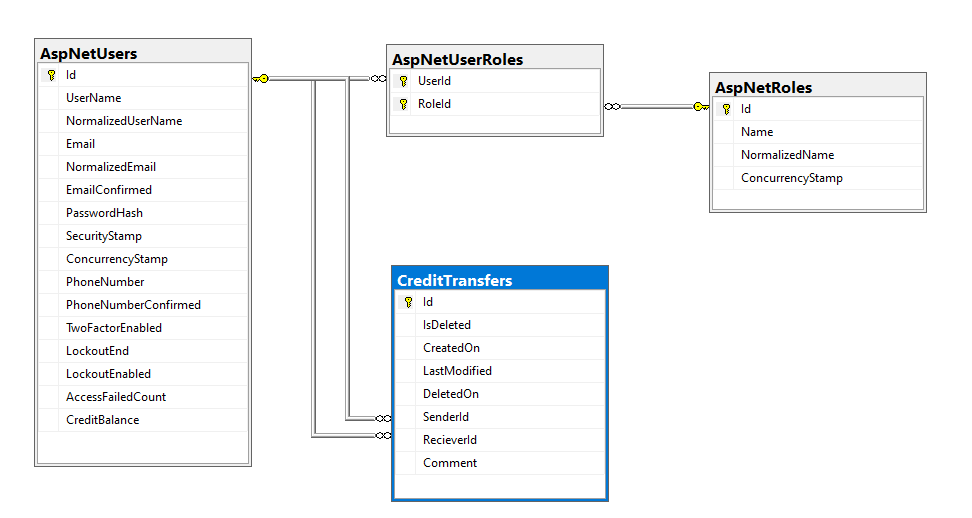
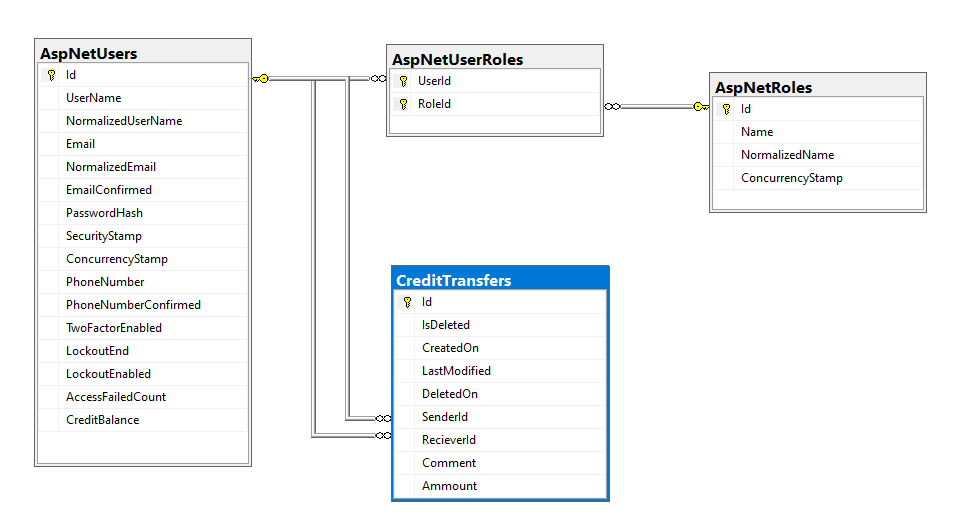
Implemented display of statistics on main-page. Added Ammount to CreditTransfer entity.

diff --git a/GiftExchanger/ServiceLibrary/Services/StatisticsService.cs b/GiftExchanger/ServiceLibrary/Services/StatisticsService.cs
@@ -1,0 +1,54 @@
+using CommonLibrary;
+using CommonLibrary.Interfaces;
+using Infrastructure.DTOS;
+using Infrasturcture.Models;
+using Microsoft.AspNetCore.Identity;
+using Microsoft.EntityFrameworkCore;
+using System.Linq;
+using System.Threading.Tasks;
+
+namespace ServiceLibrary
+{
+    public class StatisticsService : IStatisticsService
+    {
+        private readonly UserManager<UserGE> _userManager;
+        private readonly IRepository<CreditTransfer> transfersRepository;
+
+        public StatisticsService(UserManager<UserGE> userManager, IRepository<CreditTransfer> transfersRepository)
+        {
+            this._userManager = userManager;
+            this.transfersRepository = transfersRepository;
+        }
+
+
+        public async Task<AppStatisticsDTOout> GetStatisticsAsync()
+        {
+            UserGE[] users = await this._userManager.Users.ToArrayAsync();
+
+            var adminsCount = 0;
+
+
+            foreach (var user in users)
+            {
+                if (await _userManager.IsInRoleAsync(user, GlobalConstants.AdministratorRole))
+                {
+                    adminsCount++;
+                }
+            }
+
+            var result = new AppStatisticsDTOout
+            {
+                TotalUsersCount = users.Count(),
+                AdminsUsersCount = adminsCount,
+                TotalTransactions = await transfersRepository.All.Where(x => !x.IsDeleted).CountAsync(),
+                TotalTransferedCredits = await transfersRepository.All.Where(x => !x.IsDeleted).SumAsync(x => x.Ammount),
+            };
+
+            return result;
+            //  db.Users.Count(x => x.Roles.Select(k => k.RoleId).Contains(g.Key.Id))
+        }
+
+
+
+    }
+}

diff --git a/GiftExchanger/GiftExchangerApp/Controllers/HomeController.cs b/GiftExchanger/GiftExchangerApp/Controllers/HomeController.cs
@@ -2,21 +2,26 @@
 using Microsoft.AspNetCore.Mvc;
 using Microsoft.Extensions.Logging;
 using GiftExchangerApp.Models;
+using ServiceLibrary;
+using System.Threading.Tasks;
 
 namespace GiftExchangerApp.Controllers
 {
     public class HomeController : Controller
     {
         private readonly ILogger<HomeController> _logger;
+        private readonly IStatisticsService statisticsService;
 
-        public HomeController(ILogger<HomeController> logger)
+        public HomeController(ILogger<HomeController> logger, IStatisticsService statisticsService)
         {
             _logger = logger;
+            this.statisticsService = statisticsService;
         }
 
-        public IActionResult Index()
+        public async Task<IActionResult> Index()
         {
-            return View();
+            var data = await this.statisticsService.GetStatisticsAsync();
+            return View(data);
         }
 
         public IActionResult About()

diff --git a/GiftExchanger/Infrasturcture.Data/Migrations/20200708190229_AddedAmmountPropertyToCreditTransfer.Designer.cs b/GiftExchanger/Infrasturcture.Data/Migrations/20200708190229_AddedAmmountPropertyToCreditTransfer.Designer.cs
@@ -4,14 +4,16 @@ using Infrasturcture.Data;
 using Microsoft.EntityFrameworkCore;
 using Microsoft.EntityFrameworkCore.Infrastructure;
 using Microsoft.EntityFrameworkCore.Metadata;
+using Microsoft.EntityFrameworkCore.Migrations;
 using Microsoft.EntityFrameworkCore.Storage.ValueConversion;
 
 namespace Infrasturcture.Data.Migrations
 {
     [DbContext(typeof(GiftExchangerContext))]
-    partial class GiftExchangerContextModelSnapshot : ModelSnapshot
+    [Migration("20200708190229_AddedAmmountPropertyToCreditTransfer")]
+    partial class AddedAmmountPropertyToCreditTransfer
     {
-        protected override void BuildModel(ModelBuilder modelBuilder)
+        protected override void BuildTargetModel(ModelBuilder modelBuilder)
         {
 #pragma warning disable 612, 618
             modelBuilder

diff --git a/GiftExchanger/Infrasturcture.Data/Migrations/20200708190229_AddedAmmountPropertyToCreditTransfer.cs b/GiftExchanger/Infrasturcture.Data/Migrations/20200708190229_AddedAmmountPropertyToCreditTransfer.cs
@@ -1,0 +1,23 @@
+using Microsoft.EntityFrameworkCore.Migrations;
+
+namespace Infrasturcture.Data.Migrations
+{
+    public partial class AddedAmmountPropertyToCreditTransfer : Migration
+    {
+        protected override void Up(MigrationBuilder migrationBuilder)
+        {
+            migrationBuilder.AddColumn<decimal>(
+                name: "Ammount",
+                table: "CreditTransfers",
+                nullable: false,
+                defaultValue: 0m);
+        }
+
+        protected override void Down(MigrationBuilder migrationBuilder)
+        {
+            migrationBuilder.DropColumn(
+                name: "Ammount",
+                table: "CreditTransfers");
+        }
+    }
+}

diff --git a/GiftExchanger/GiftExchangerApp/Startup.cs b/GiftExchanger/GiftExchangerApp/Startup.cs
@@ -78,8 +78,9 @@ namespace GiftExchangerApp
             IMapper mapper = mappingConfig.CreateMapper();
             services.AddSingleton(mapper);
             services.AddScoped(typeof(IRepository<>), typeof(DbRepository<>));
-          
+
             services.AddTransient<IUserService, UserService>();
+            services.AddTransient<IStatisticsService, StatisticsService>();
         }
 
         // This method gets called by the runtime. Use this method to configure the HTTP request pipeline.

diff --git a/GiftExchanger/Infrastructure.DTOS/Home/AppStatisticsDTOout.cs b/GiftExchanger/Infrastructure.DTOS/Home/AppStatisticsDTOout.cs
@@ -1,0 +1,10 @@
+namespace Infrastructure.DTOS
+{
+    public class AppStatisticsDTOout
+    {
+        public int TotalUsersCount { get;  set; }
+        public int AdminsUsersCount { get;  set; }
+        public int TotalTransactions { get;  set; }
+        public decimal TotalTransferedCredits { get;  set; }
+    }
+}

diff --git a/GiftExchanger/Infrasturcture.Models/Models/UserGE.cs b/GiftExchanger/Infrasturcture.Models/Models/UserGE.cs
@@ -13,7 +13,6 @@
         }
 
         public decimal CreditBalance { get; set; }
-
         public virtual ICollection<CreditTransfer> TransactionsSent { get; set; }
         public virtual ICollection<CreditTransfer> TransactionsRecieved { get; set; }
     }

diff --git a/GiftExchanger/ServiceLibrary/Contracts/IStatisticsService.cs b/GiftExchanger/ServiceLibrary/Contracts/IStatisticsService.cs
@@ -1,0 +1,10 @@
+using Infrastructure.DTOS;
+using System.Threading.Tasks;
+
+namespace ServiceLibrary
+{
+    public interface IStatisticsService
+    {
+        Task<AppStatisticsDTOout> GetStatisticsAsync();
+    }
+}

diff --git a/GiftExchanger/Infrasturcture.Models/Models/CreditTransfer.cs b/GiftExchanger/Infrasturcture.Models/Models/CreditTransfer.cs
@@ -11,5 +11,6 @@ namespace Infrasturcture.Models
         public virtual UserGE Reciever { get; set; }
 
         public string Comment { get; set; }
+        public decimal Ammount { get; set; }
     }
 }
